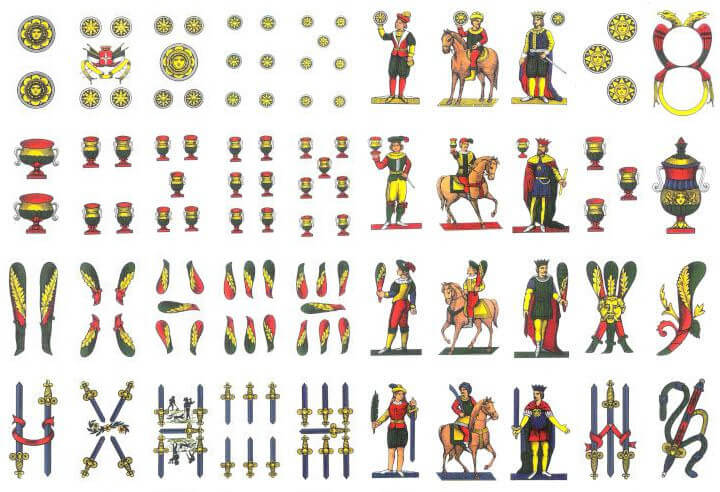
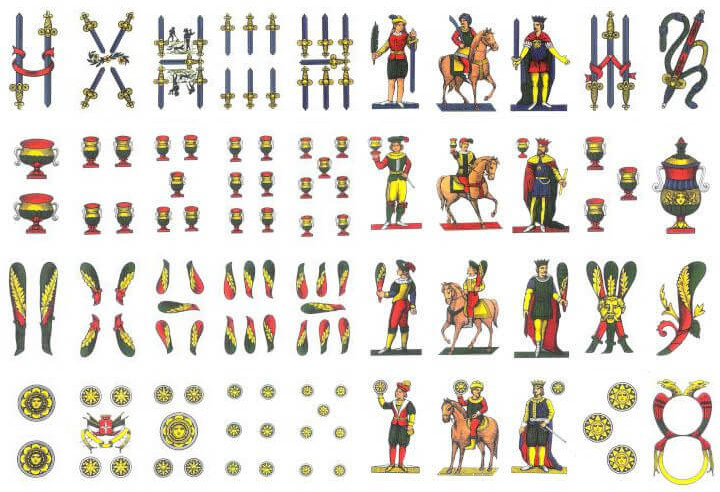
Add basic, but broken, deck client-side changer

diff --git a/briscolasuperamici.js b/briscolasuperamici.js
@@ -32,12 +32,6 @@ function (dojo, declare) {
             this.frenchCardWidth = 72;
             this.frenchCardHeight = 96;
             this.frenchCardsImage = 'img/french-cards.jpg';
-
-            // Use italian as default
-            this.cardwidth = this.italianCardWidth;
-            this.cardheight = this.italianCardHeight;
-            this.cardsImage = this.italianCardsImage;
-            this.deckType = 'italian';
         },
         
         /*
@@ -57,17 +51,22 @@ function (dojo, declare) {
         {
             var self = this;
 
-            this.deckType = gamedatas.deck_type;
-            if (this.deckType === 'french') {
-                // Change all cards width, height and image to french ones
-                this.cardwidth = this.frenchCardWidth;
-                this.cardheight = this.frenchCardHeight;
-                this.cardsImage = this.frenchCardsImage;
-            } else if (this.deckType === 'italian') {
-                // Adjust deck size to fit italian cards
-                dojo.addClass('mydeck_wrap', 'italian');
-                dojo.addClass('briscola_wrap', 'italian');
-            }
+            // Use italian deck as default
+            this.deckType = 'italian';
+
+            $('current_style').innerHTML = _('Italian deck');
+
+            this.cardwidth = this.italianCardWidth;
+            this.cardheight = this.italianCardHeight;
+            this.cardsImage = this.italianCardsImage;
+
+            // Add right class to player table
+            dojo.query('.playertable').addClass('italian');
+            dojo.query('.playertablecard').addClass('italian');
+
+            // Adjust deck size to fit italian cards
+            dojo.addClass('mydeck_wrap', 'italian');
+            dojo.addClass('briscola_wrap', 'italian');
 
             var playersCount = 0;
             for (var pId in gamedatas.players) {
@@ -79,7 +78,7 @@ function (dojo, declare) {
 
                     // Set up players boards if needed
                     var playerBoardDiv = $('player_board_' + pId);
-                    dojo.place(this.format_block('jstpl_player_board', player), playerBoardDiv );
+                    dojo.place(this.format_block('jstpl_player_board', player), playerBoardDiv);
 
                     var div = $('trickscount_p' + pId);
                     if (div) {
@@ -144,6 +143,9 @@ function (dojo, declare) {
                     self.interpolateLogs();
                 }
             }, 100);
+
+            // Add listener for deck style change
+            dojo.connect($('change_card_style'), 'onclick', this, 'onChangeCardStyle');
         },
        
 
@@ -306,16 +308,29 @@ function (dojo, declare) {
         },
 
         interpolateLogs: function() {
-            // TODO: Implement it for real
+            if (this.deckType === 'italian') {
+                // Show italian logs
+                dojo.query('.briscola-logs-card-value.french').addClass('display-none');
+                dojo.query('.briscola-logs-card-suit.french').addClass('display-none');
 
-            // Hide french info from logs
-            dojo.query('.briscola-logs-card-value.french').style({
-                display: 'none'
-            });
+                dojo.query('.briscola-logs-card-value.italian').removeClass('display-none');
+                dojo.query('.briscola-logs-card-suit.italian').removeClass('display-none');
+            } else {
+                // Show french logs
+                dojo.query('.briscola-logs-card-value.italian').addClass('display-none');
+                dojo.query('.briscola-logs-card-suit.italian').addClass('display-none');
 
-            dojo.query('.briscola-logs-card-suit.french').style({
-                display: 'none'
-            });
+                dojo.query('.briscola-logs-card-value.french').removeClass('display-none');
+                dojo.query('.briscola-logs-card-suit.french').removeClass('display-none');
+            }
+
+            // dojo.query('.briscola-logs-card-value.french').style({
+            //     display: 'none'
+            // });
+            //
+            // dojo.query('.briscola-logs-card-suit.french').style({
+            //     display: 'none'
+            // });
         },
 
         ///////////////////////////////////////////////////
@@ -400,6 +415,134 @@ function (dojo, declare) {
                 }, function(is_error) {
                 });
             }
+        },
+
+        onChangeCardStyle: function() {
+            if (this.deckType === 'italian') {
+                // Switch to french
+                this.deckType = 'french';
+
+                $('current_style').innerHTML = _('French deck');
+
+                this.cardwidth = this.frenchCardWidth;
+                this.cardheight = this.frenchCardHeight;
+                this.cardsImage = this.frenchCardsImage;
+
+                // Add right class to player table
+                dojo.query('.playertable').removeClass('italian').addClass('french');
+                dojo.query('.playertablecard').removeClass('italian').addClass('french');
+
+                // Adjust deck size to remove fit for italian cards
+                dojo.removeClass('mydeck_wrap', 'italian');
+                dojo.addClass('mydeck_wrap', 'french');
+                dojo.removeClass('briscola_wrap', 'italian');
+                dojo.addClass('briscola_wrap', 'french');
+
+                // Replace deck images
+                var decks = [this.playerHand, this.briscolaCard];
+                var image = null;
+                for (var i in decks) {
+                    var deck = decks[i];
+                    deck.item_height = this.cardheight;
+                    deck.item_width = this.cardwidth;
+
+                    for (var j in deck.item_type) {
+                        var item = deck.item_type[j];
+
+                        if (!image) {
+                            image = item.image.replace(this.italianCardsImage, this.frenchCardsImage);
+                        }
+
+                        item.image = image;
+                    }
+
+                    deck.updateDisplay();
+                }
+
+                // Change style of the current visible cards in the stocks
+                dojo.query('.stockitem').style({
+                    'background-image': 'url(' + image + ')',
+                    height: this.cardheight + 'px',
+                    width: this.cardwidth + 'px'
+                });
+
+                // Change class of the cards on the table
+                dojo.query('.cardontable').removeClass('italian');
+                dojo.query('.cardontable').addClass('french');
+                // Change style as well
+                dojo.query('.cardontable').style({
+                    'background-image': 'url(' + image + ')',
+                    height: this.cardheight + 'px',
+                    width: this.cardwidth + 'px'
+                });
+
+                // Remove bordered-card class as well as listener
+                // TODO
+            } else {
+                // Switch to italian
+                this.deckType = 'italian';
+
+                $('current_style').innerHTML = _('Italian deck');
+
+                this.cardwidth = this.italianCardWidth;
+                this.cardheight = this.italianCardHeight;
+                this.cardsImage = this.italianCardsImage;
+
+                // Add right class to player table
+                dojo.query('.playertable').removeClass('french').addClass('italian');
+                dojo.query('.playertablecard').removeClass('french').addClass('italian');
+
+                // Adjust deck size to fit italian cards
+                dojo.removeClass('mydeck_wrap', 'french');
+                dojo.addClass('mydeck_wrap', 'italian');
+                dojo.removeClass('briscola_wrap', 'french');
+                dojo.addClass('briscola_wrap', 'italian');
+
+                // Replace deck images
+                var decks = [this.playerHand, this.briscolaCard];
+                var image = null;
+                for (var i in decks) {
+                    var deck = decks[i];
+                    deck.item_height = this.cardheight;
+                    deck.item_width = this.cardwidth;
+
+                    for (var j in deck.item_type) {
+                        var item = deck.item_type[j];
+
+                        if (!image) {
+                            image = item.image.replace(this.frenchCardsImage, this.italianCardsImage);
+                        }
+
+                        item.image = image;
+                    }
+
+                    deck.updateDisplay();
+                }
+
+                // Change style of the current visible cards in the stocks
+                dojo.query('.stockitem').style({
+                    'background-image': 'url(' + image + ')',
+                    height: this.cardheight + 'px',
+                    width: this.cardwidth + 'px'
+                });
+
+                // Change class of the cards on the table
+                dojo.query('.cardontable').removeClass('french');
+                dojo.query('.cardontable').addClass('italian');
+                // Change style as well
+                dojo.query('.cardontable').style({
+                    'background-image': 'url(' + image + ')',
+                    height: this.cardheight + 'px',
+                    width: this.cardwidth + 'px'
+                });
+
+                // Add bordered-card class as well as listener
+                // TODO
+            }
+
+            // Transform logs as well
+            // N.B: This has to be called after new deckType has been declared
+            this.interpolateLogs();
         },
         
         ///////////////////////////////////////////////////

diff --git a/briscolasuperamici.css b/briscolasuperamici.css
@@ -253,28 +253,36 @@ div.briscola-logs-card-suit.italian > div.club {
     height: 26px;
     width: 14px;
     background-size: cover;
-    background-image: url('img/italian-clubs-suit.png');
+    background-image: url('img/italian-club-suit.png');
 }
 
 div.briscola-logs-card-suit.italian > div.coin {
     height: 22px;
     width: 14px;
     background-size: cover;
-    background-image: url('img/italian-coins-suit.png');
+    background-image: url('img/italian-coin-suit.png');
 }
 
 div.briscola-logs-card-suit.italian > div.cup {
     height: 22px;
     width: 14px;
     background-size: cover;
-    background-image: url('img/italian-cups-suit.png');
+    background-image: url('img/italian-cup-suit.png');
 }
 
-div.briscola-logs-card-suit.italian > div.spade {
+div.briscola-logs-card-suit.italian > div.sword {
     height: 28px;
     width: 14px;
     background-size: cover;
-    background-image: url('img/italian-spades-suit.png');
+    background-image: url('img/italian-sword-suit.png');
+}
+
+/*** Change deck style ***/
+
+#change_deck_style_wrapper {
+    position: relative;
+    float: right;
+    top: 88px;
 }
 
 /*** Misc ***/
@@ -294,5 +302,9 @@ div.briscola-logs-card-suit.italian > div.spade {
 #teammate-hand .stockitem,
 #team-tricks-won .stockitem {
     cursor: auto;
+}
+
+.display-none {
+    display: none !important;
 }
 

diff --git a/briscolasuperamici.view.php b/briscolasuperamici.view.php
@@ -44,15 +44,6 @@
         // Arrange players so that current player is always on south
         $players_to_dir = $this->game->getPlayersToDirection();
 
-        // Get deck type
-        $deckTypeForPlayerBlock = null;
-        $deckType = $this->game->getGameStateValue('deckType');
-        if ($deckType == ITALIAN_DECK) {
-            $deckTypeForPlayerBlock = 'italian';
-        } else if ($deckType == FRENCH_DECK) {
-            $deckTypeForPlayerBlock = 'french';
-        }
-
         // This will inflate our player block with actual players data
         $this->page->begin_block($template, "player");
         foreach ($players_to_dir as $player_id => $dir) {
@@ -60,13 +51,15 @@
                 "PLAYER_ID" => $player_id,
                 "PLAYER_NAME" => $players[$player_id]['player_name'],
                 "PLAYER_COLOR" => $players[$player_id]['player_color'],
-                "DIR" => $dir,
-                "DECK_TYPE" => $deckTypeForPlayerBlock
+                "DIR" => $dir
             ));
         }
 
-        // This will make our My Hand text translatable
+        // i18n stuff
         $this->tpl['MY_HAND'] = self::_("My hand");
+        $this->tpl['NOW_USING_DECK'] = self::_("Now using: ");
+        $this->tpl['MY_HAND'] = self::_("My hand");
+        $this->tpl['CHANGE_DECK_STYLE'] = self::_("Change deck style");
 
         /*********** Do not change anything below this line  ************/
   	}

diff --git a/material.inc.php b/material.inc.php
@@ -21,9 +21,9 @@
 
 $this->italianColors = array(
     1 => array(
-        'name' => clienttranslate('coin'),
-        'nametr' => self::_('coin'),
-        'nameorig' => 'coin'),
+        'name' => clienttranslate('sword'),
+        'nametr' => self::_('sword'),
+        'nameorig' => 'sword'),
     2 => array(
         'name' => clienttranslate('cup'),
         'nametr' => self::_('cup'),
@@ -33,19 +33,23 @@ $this->italianColors = array(
         'nametr' => self::_('club'),
         'nameorig' => 'club'),
     4 => array(
-        'name' => clienttranslate('spade'),
-        'nametr' => self::_('spade'),
-        'nameorig' => 'spade')
+        'name' => clienttranslate('coin'),
+        'nametr' => self::_('coin'),
+        'nameorig' => 'coin')
 );
 
 $this->frenchColors = array(
-    1 => array('name' => clienttranslate('spade'),
+    1 => array(
+        'name' => clienttranslate('spade'),
         'nametr' => self::_('spade')),
-    2 => array('name' => clienttranslate('heart'),
+    2 => array(
+        'name' => clienttranslate('heart'),
         'nametr' => self::_('heart')),
-    3 => array('name' => clienttranslate('club'),
+    3 => array(
+        'name' => clienttranslate('club'),
         'nametr' => self::_('club')),
-    4 => array('name' => clienttranslate('diamond'),
+    4 => array(
+        'name' => clienttranslate('diamond'),
         'nametr' => self::_('diamond'))
 );
 

diff --git a/misc/cut-image/script-italian.py b/misc/cut-image/script-italian.py
@@ -46,4 +46,14 @@ for y in range(0, Y * ROWS, Y):
 	region = src.crop(src_box)
 	dst.paste(region, dst_box)
 
+# Swap first and last row of cards, due to suit order in french cards
+first_row_region = (0, 0, X * NEW_COLS, Y)
+first_row = dst.crop(first_row_region)
+
+last_row_region = (0, Y * ROWS - Y, X * NEW_COLS, Y * ROWS)
+last_row = dst.crop(last_row_region)
+
+dst.paste(first_row, last_row_region)
+dst.paste(last_row, first_row_region)
+
 dst.save("italian-output.jpg")
